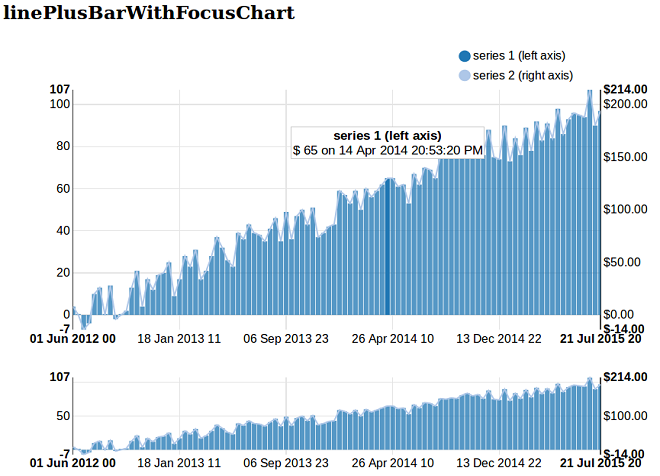
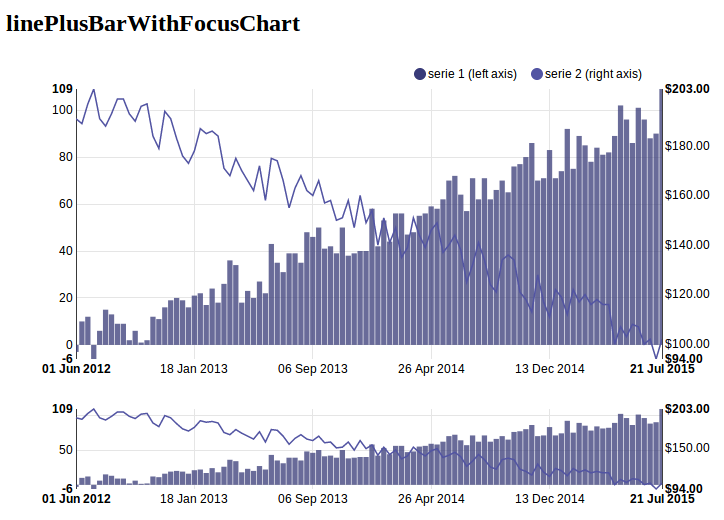
update version 0.4.0 / update demoproject

diff --git a/demoproject/demoproject/views.py b/demoproject/demoproject/views.py
@@ -358,7 +358,7 @@ def demo_lineplusbarwithfocuschart(request):
     xdata = list(range(nb_element))
     xdata = [start_time + x * 1000000000 for x in xdata]
     ydata = [i + random.randint(-10, 10) for i in range(nb_element)]
-    ydata2 = [x * 2 for x in ydata]
+    ydata2 = [200 - i + random.randint(-10, 10) for i in range(nb_element)]
 
     kwargs1 = {}
     kwargs1['bar'] = True

diff --git a/docs/source/conf.py b/docs/source/conf.py
@@ -48,9 +48,9 @@ copyright = u'2013, Arezqui Belaid'
 # built documents.
 #
 # The short X.Y version.
-version = '0.1.0'
+version = '0.4'
 # The full version, including alpha/beta/rc tags.
-release = '0.1.0'
+release = '0.4.0'
 
 # The language for content autogenerated by Sphinx. Refer to documentation
 # for a list of supported languages.

diff --git a/django_nvd3/__init__.py b/django_nvd3/__init__.py
@@ -1,6 +1,6 @@
 # -*- coding: utf-8 -*-
 
-VERSION = (0, 3, 1, "")
+VERSION = (0, 4, 0, "")
 __version__ = ".".join(map(str, VERSION[0:3])) + "".join(VERSION[3:])
 __author__ = "Arezqui Belaid"
 __contact__ = "areski@gmail.com"

diff --git a/demoproject/demoproject/templatetags/demo_tags.py b/demoproject/demoproject/templatetags/demo_tags.py
@@ -4,4 +4,4 @@ from django.template.defaultfilters import register
 
 @register.filter
 def demo(value):
-    return 'demo-' + value
+    return value + 'demo'

diff --git a/CHANGELOG.rst b/CHANGELOG.rst
@@ -2,6 +2,12 @@ Changelog
 =========
 
 
+0.4.0 (2013-10-03)
+------------------
+
+* Support new chart linePlusBarWithFocusChart
+
+
 0.3.1 (2013-09-30)
 ------------------
 
